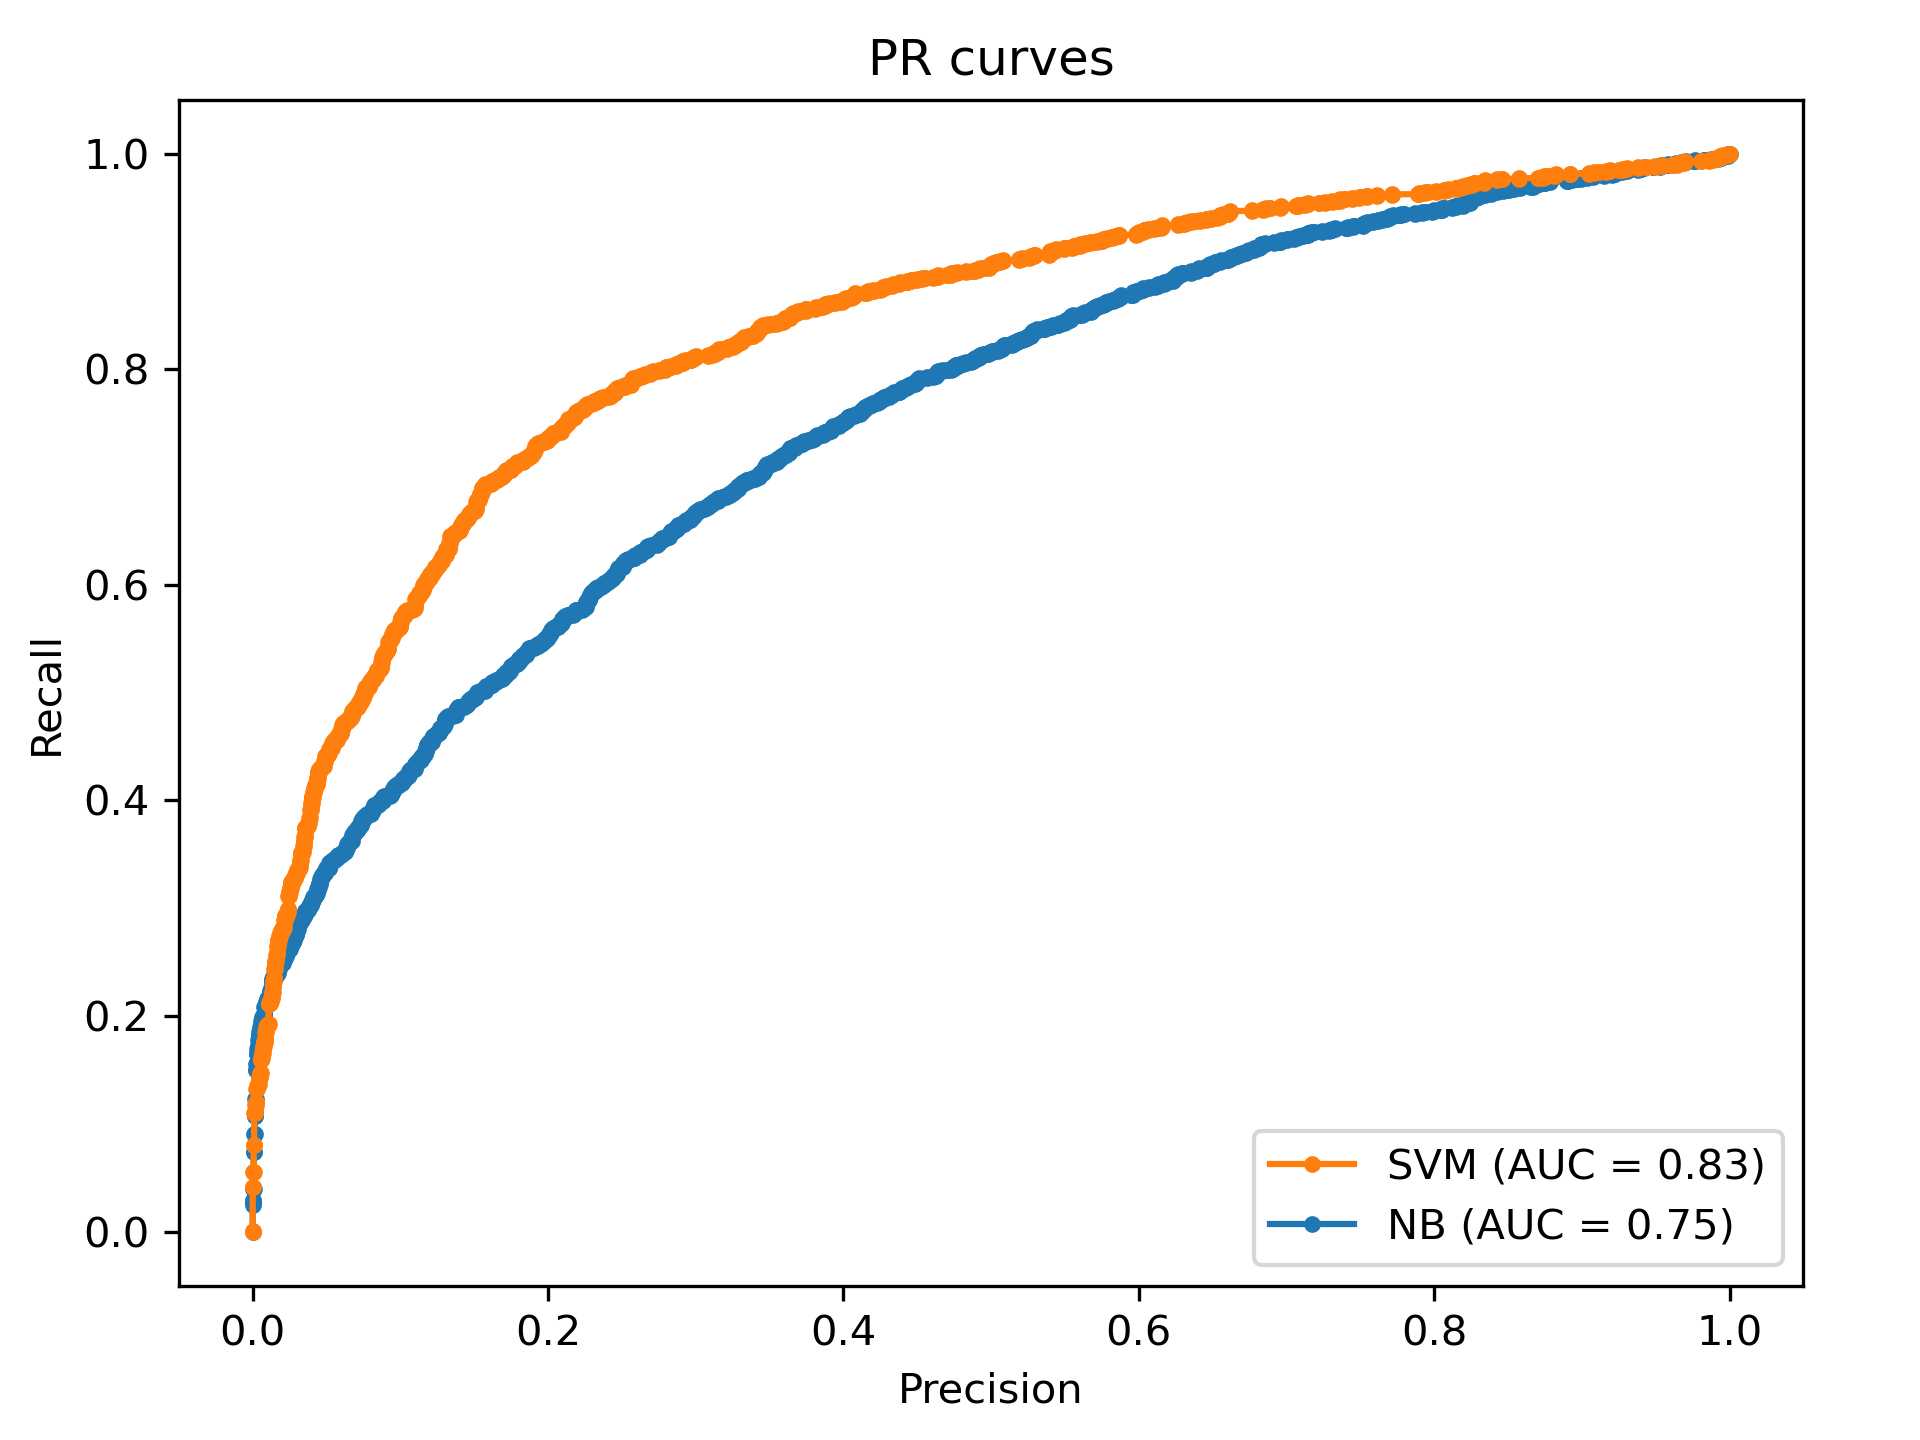
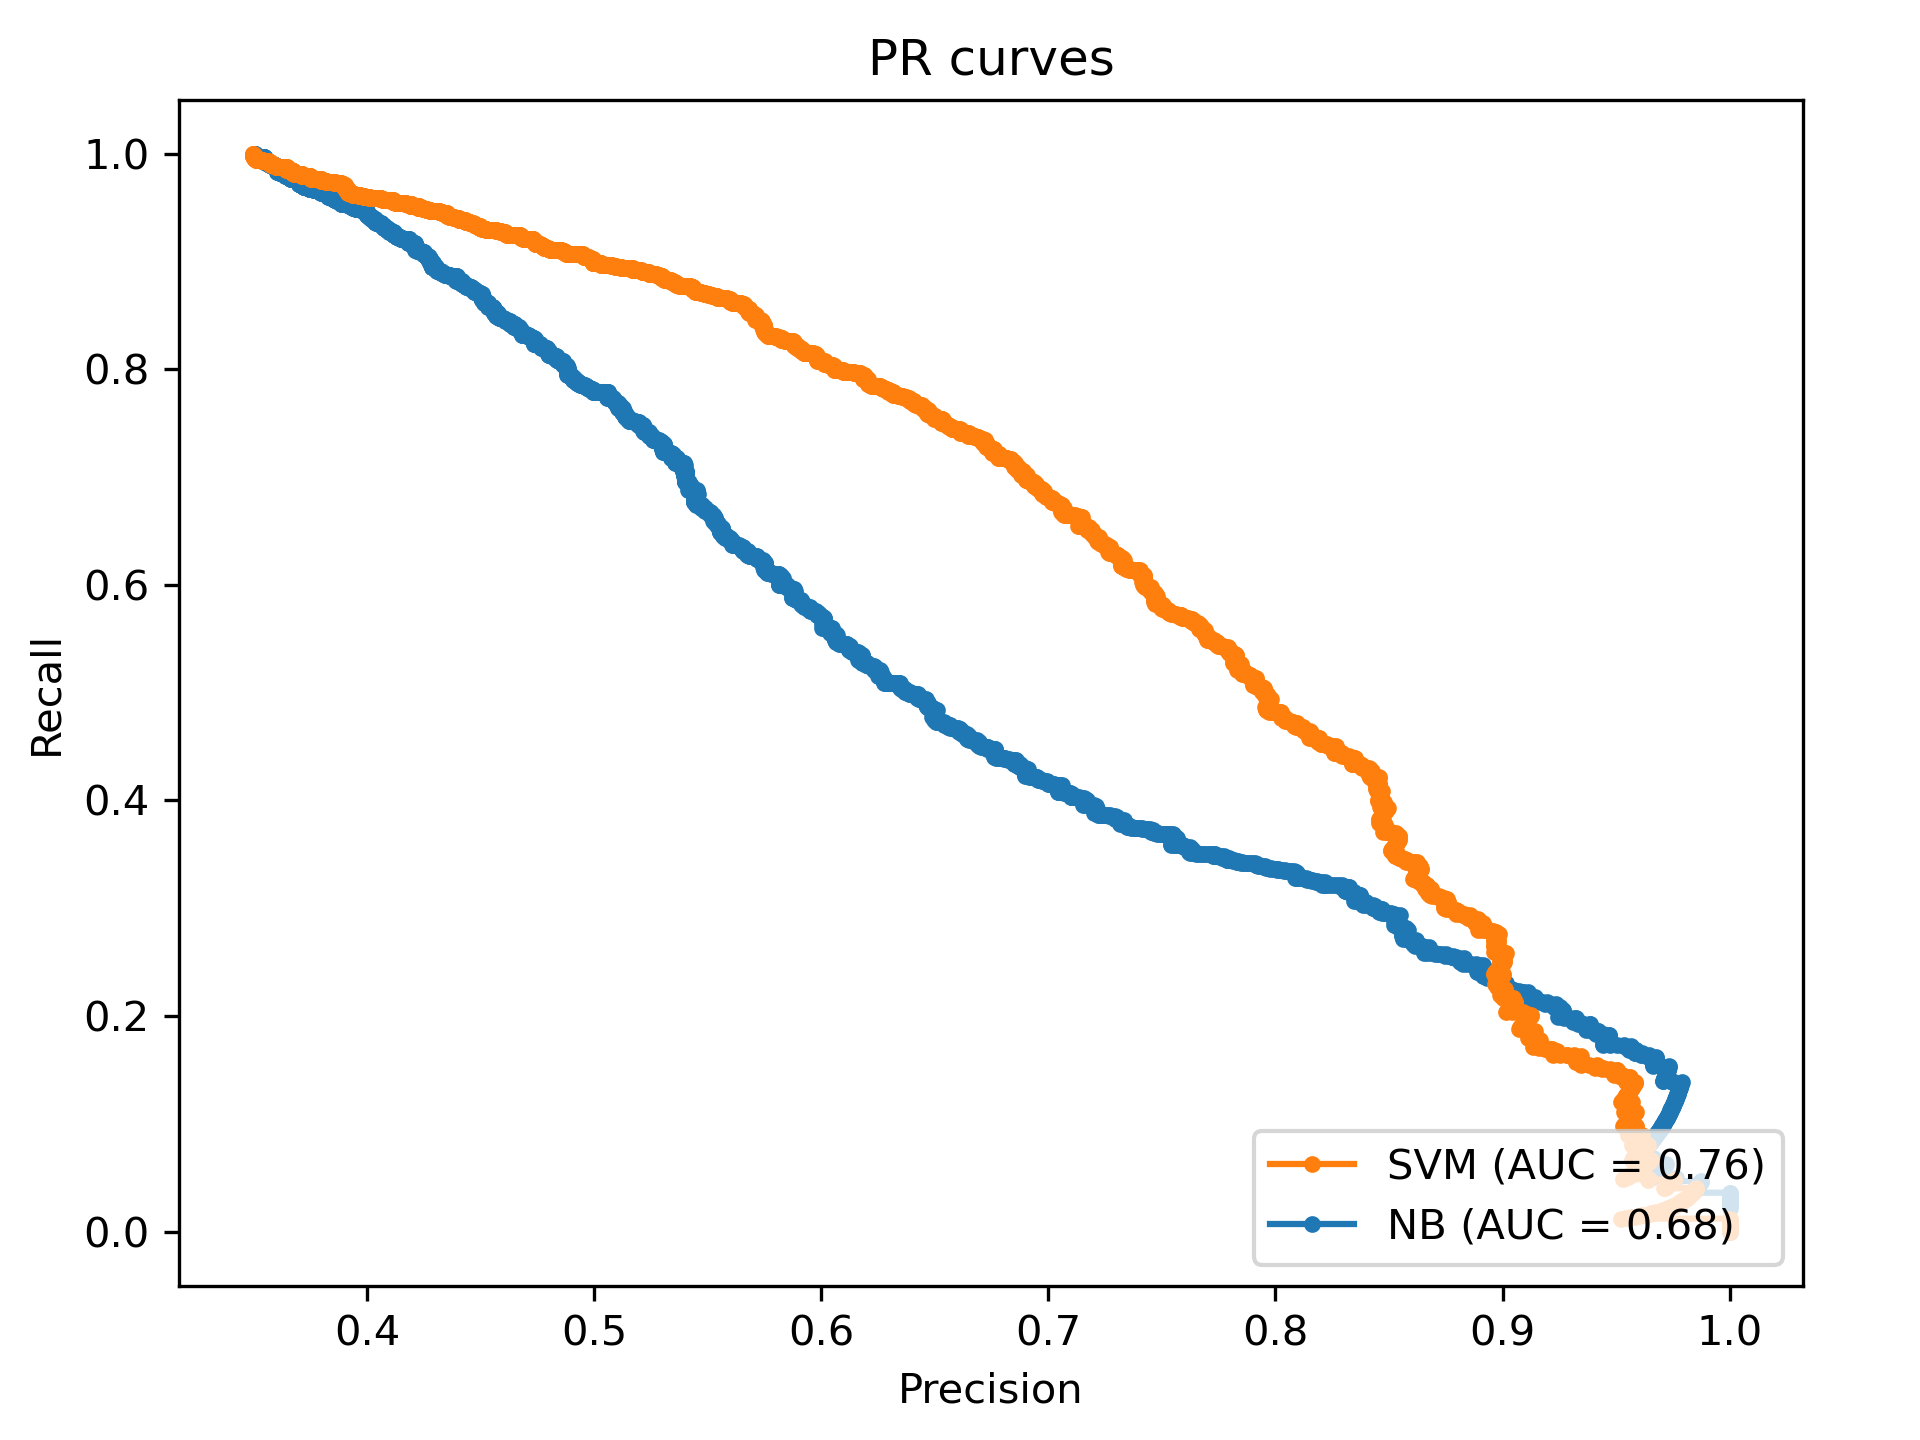
fixed pr & roc plots being the same... oops...

diff --git a/main.py b/main.py
@@ -119,7 +119,10 @@ def evaluate(nb_model, svm_model, X, y):
                 (rocax, "ROC", "False Positive Rate", "True Positive Rate"),
                 (prax, "PR", "Precision", "Recall"),
                 ]:
-            ax.plot(fpr, tpr, marker='.', label=f'{label} (AUC = {auc:.2f})')
+            if curve_label == "ROC":
+                ax.plot(fpr, tpr, marker='.', label=f'{label} (AUC = {auc:.2f})')
+            else:
+                ax.plot(precision, recall, marker='.', label=f'{label} (AUC = {pr_auc:.2f})')
             ax.set_title(f'{curve_label} curves')
             ax.set(xlabel=xaxis, ylabel=yaxis)
 
